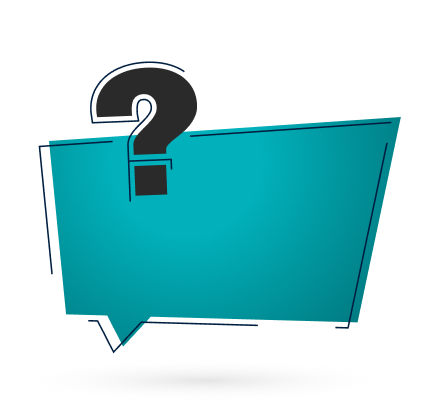
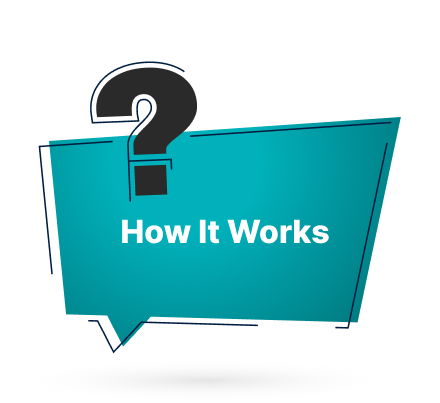
API page changes

diff --git a/src/pages/API/HeroApi.jsx b/src/pages/API/HeroApi.jsx
@@ -5,6 +5,14 @@ import ApiIntegrate from './ApiIntegrate';
 import Plan from './Plan';
 import ApiAccess from './ApiAccess';
 import HowItWorks from './HowItWorks';
+import CustomAPIPlan from './CustomApiPlan';
+import DraggableImageSection from '../Home/DraggableImageSection';
+import sec14Img2 from "../../assets/home/sec14/Vector.png";
+import sec14Img3 from "../../assets/home/sec14/m1.jpg";
+import sec14Img4 from "../../assets/home/sec14/m2.jpg";
+import sec14Img5 from "../../assets/home/sec14/m3.jpg";
+
+
 
 export default function HeroApi() {
   return (
@@ -67,6 +75,183 @@ export default function HeroApi() {
     {/* section-7  */}
 
     <HowItWorks/>
+
+    {/* section-8  */}
+    
+    <CustomAPIPlan/>
+
+    {/* section-9  */}
+
+ <div className='w-full flex justify-center'>
+ <div className='w-[1280px] h-[1049px] rounded-[40px] bg-[white] shadow-[#00000040] shadow-[0_0_4px_0] flex flex-col justify-center items-center'>
+      <h2 className="w-full max-w-[743px] min-h-[64px] text-[44px] leading-[64px] font-bold text-center">
+        Ready to <span className="text-[#009A98]">Create Something Great?</span>
+      </h2>
+      <p className=" w-full max-w-[770px] min-h-[56px] text-[18px] font-[400] leading-[28px] text-center text-[#2A2A2A] my-8">
+        We offer flexible API plans tailored to your needs.<br />
+        Let’s build the right setup—just for you.
+      </p>
+    <div className="w-[730px] h-[721px] rounded-[10px] border-[1px] border-[#007B8214] border-solid p-[50px] gap-[10px] bg-[#ffffff] shadow-[#ABB2BB40] shadow-[0_0_12px_0] flex justify-center items-center">
+      <form className="space-y-8">
+        <div className="flex flex-col md:flex-row gap-4">
+          <input
+            type="text"
+            placeholder="Ram"
+            className="flex-1 border-[1px] border-solid border-[#E2E2E2] bg-[#F9F9F9] rounded px-4 py-2 focus:outline-none focus:ring-2 focus:ring-teal-500"
+          />
+          <input
+            type="email"
+            placeholder="ramprakash@example.com"
+            className="flex-1 border-[1px] border-solid border-[#E2E2E2] bg-[#F9F9F9] rounded px-4 py-2 focus:outline-none focus:ring-2 focus:ring-teal-500"
+          />
+        </div>
+        <div className="flex flex-col md:flex-row gap-4">
+          <input
+            type="tel"
+            placeholder="+9 0123456789"
+            className="flex-1 border-[1px] border-solid border-[#E2E2E2] bg-[#F9F9F9] rounded px-4 py-2 focus:outline-none focus:ring-2 focus:ring-teal-500"
+          />
+          <div className="flex-1 flex items-center border-[1px] border-solid border-[#E2E2E2] bg-[#F9F9F9] rounded px-4 py-2 ">
+            <img src="https://flagcdn.com/w40/in.png" alt="India Flag" className="" />
+            <span className="text-gray-500"></span>
+          </div>
+        </div>
+        <input
+          type="text"
+          placeholder="Companyexample"
+          className="w-full border-[1px] border-solid border-[#E2E2E2] bg-[#F9F9F9] rounded px-4 py-2 focus:outline-none focus:ring-2 focus:ring-teal-500"
+        />
+        <input
+          type="text"
+          placeholder="Address*"
+          className="w-full border-[1px] border-solid border-[#E2E2E2] bg-[#F9F9F9] rounded px-4 py-2 focus:outline-none focus:ring-2 focus:ring-teal-500"
+        />
+        <textarea
+          placeholder="Your message..."
+          rows="4"
+          className="w-full border-[1px] border-solid border-[#E2E2E2] bg-[#F9F9F9] rounded px-4 py-2 focus:outline-none focus:ring-2 focus:ring-teal-500"
+        />
+        <button
+          type="submit"
+          className="w-full bg-gradient-to-r from-teal-600 to-teal-500 text-white py-2 rounded hover:opacity-90 transition"
+        >
+          Let's Connect!
+        </button>
+      </form>
+    </div>
+  
+  </div>
+
+ </div>
+
+       {/* {section-10} */}
+       <section className="w-full py-16 px-4 flex flex-col justify-center items-center mt-20">
+        <h2 className="text-[48px] md:text-5xl font-semibold text-center text-gray-800 leading-[140%]">
+          Discover Our{" "}
+          <span className="text-[#007B82]">Advanced AI Interior Tools</span> and
+          Redesign
+        </h2>
+        <h2 className="text-[48px] md:text-5xl font-semibold text-center text-[black] mt-3">
+          Your Space Instantly
+        </h2>
+      </section>
+
+ {/* section-11  */}
+
+ <DraggableImageSection/>
+
+ {/* section-12  */}
+
+  <section
+         className="relative w-full  absolute-0  bg-cover bg-center bg-no-repeat"
+         style={{ backgroundImage: "url('./src/assets/home/sec14/bg1.jpg')" }}
+       >
+         <div className="py-20 px-6 bg-[#00000096]">
+           <div className="flex flex-col items-center text-center text-white">
+             <h2 className="text-[48px] md:text-5xl leading-[140%] text-center font-bold mb-4">
+               <span className="text-6xl font-bold">“</span> Meet Our Members{" "}
+               <span className="text-6xl font-bold">”</span>
+             </h2>
+             <p className="max-w-[630px] min-h-[78px] text-[28px] leading-[140%] text-center md:text-xl text-gray-300 mb-8">
+               You're in good company with{" "}
+               <span className="text-cyan-400  font-semibold">Stackly AI</span>,
+               trusted by people in all 195 countries.
+             </p>
+             {/* Center logo */}
+             <div className="mb-16">
+               <div className="bg-[#FFFFFF1F] rounded-full p-8 shadow-lg">
+                 <img src={sec14Img2} alt="Center Icon" className="w-12 h-12" />
+               </div>
+             </div>
+ 
+             {/* Member Cards */}
+             <div className="w-[100vw] flex justify-center item-center flex-wrap gap-10">
+               {/* Card 1 */}
+               <div className="max-w-[413px] min-h-[288px] bg-white rounded-[12px] p-10 flex flex-col items-center">
+                 <div className="min-w-[413px] h-full flex justify-around items-center">
+                   <div className="max-w-[206px] min-h-[64px] flex flex-col items-start gap-1 ">
+                     <h3 className="text-black text-[22px] font-medium leading-[140%] ">Guru Ragav Auditor</h3>
+                     <p className="text-[#b0b0b0] font-[400] text-[18px] leading-[140%]">Auditor</p>
+                   </div>
+                   <img
+                     src={sec14Img3}
+                     alt="Member 1"
+                     className="w-20 h-20 rounded-full object-cover"
+                   />
+                 </div>
+                 <p className="text-[#2A2A2A] font-[400] text-[18px] leading-[140%] mt-10">
+                   “I use Stackly AI to help my clients visualize how their
+                   backyard could look like if they hire me for the job. It works
+                   flawlessly!”
+                 </p>
+               </div>
+ 
+               {/* Card 2 */}
+               <div className="max-w-[413px] min-h-[288px] bg-white rounded-[12px] p-10 flex flex-col items-center">
+                 <div className="min-w-[413px] h-full flex justify-around items-center">
+                   <div className="max-w-[206px] min-h-[64px] flex flex-col items-start gap-1">
+                     <h3 className="text-black text-[22px] font-medium leading-[140%]">Cristian Rama</h3>
+                     <p className="text-[#b0b0b0] font-[400] text-[18px] leading-[140%]">Architect</p>
+                   </div>
+                   <img
+                     src={sec14Img4}
+                     alt="Member 2"
+                     className="w-20 h-20 rounded-full object-cover"
+                   />
+                 </div>
+                 <p className="text-[#2A2A2A] font-[400] text-[18px] leading-[140%] mt-10">
+                   “I needed to replace my living room furniture so I generated a
+                   few design ideas with Stackly AI. Awesome technology!”
+                 </p>
+               </div>
+ 
+               {/* Card 3 */}
+               <div className="max-w-[413px] min-h-[288px] bg-white rounded-[12px] p-10 flex flex-col items-center">
+                 <div className="min-w-[413px] h-full flex justify-around items-center">
+                   <div className="max-w-[206px] min-h-[64px] flex flex-col items-start gap-1">
+                     <h3 className="text-black text-[22px] font-medium leading-[140%]">Ram Krishnan</h3>
+                     <p className="text-[#b0b0b0] font-[400] text-[18px] leading-[140%]">Architect</p>
+                   </div>
+                   <img
+                     src={sec14Img5}
+                     alt="Member 3"
+                     className="w-20 h-20 rounded-full object-cover"
+                   />
+                 </div>
+                 <p className="text-[#2A2A2A] font-[400] text-[18px] leading-[140%] mt-10">
+                   “I run a real estate agency and my clients send me pictures
+                   with their empty properties. I use Stackly AI to furnish them
+                   automatically!”
+                 </p>
+               </div>
+             </div>
+           </div>
+         </div>
+       </section>
+
+       {/* section-14  */}
+       
+
 
 
     </div>

diff --git a/src/pages/API/HowItWorks.jsx b/src/pages/API/HowItWorks.jsx
@@ -2,67 +2,52 @@ import HowImage from "../../assets/api/how.png";
 
 const HowItWorks = () => {
   return (
-    <div style={{ padding: "40px", backgroundColor: "#f9f9f9" }}>
-      <div style={{ display: "flex", alignItems: "flex-start", gap: "20px" }}>
-        <img src={HowImage} alt="How It Works" style={{ width: "150px" }} />
-        <div>
-          <p style={{ maxWidth: "500px", lineHeight: "1.5", color: "#333" }}>
-            Bring AI-powered design into your app with just a few lines of code.
-            The StacklyAI API makes it easy to process user-submitted images, apply
-            custom styles, and deliver stunning visual results—all in real time.
-          </p>
-        </div>
+    <div className="py-10 bg-gray-50">
+      <div className="flex flex-col md:flex-row items-start gap-6 max-w-5xl mx-auto">
+        <img src={HowImage} alt="How It Works" className="w-[413px]" />
+        <p className="text-[#2A2A2A] leading-[28px] text-[18px] font-medium max-w-xl mt-[150px] gap-5">
+          Bring AI-powered design into your app with just a few lines of code. The StacklyAI API makes it easy to process user-submitted images, apply custom styles, and deliver stunning visual results—all in real time.
+        </p>
       </div>
-      <div style={{ display: "flex", justifyContent: "space-between", marginTop: "40px" }}>
-        <div style={{ textAlign: "center", width: "23%" }}>
-          <div style={{
-            border: "1px solid #eee",
-            borderRadius: "50%",
-            width: "50px",
-            height: "50px",
-            lineHeight: "50px",
-            margin: "0 auto",
-            fontWeight: "bold"
-          }}>1</div>
-          <p>Connect your API key to your backend or platform</p>
+
+      <div className="w-full h-auto flex p-[20px] justify-center items-center">
+
+        <div className="w-[330px] h-[400px] flex flex-col gap-[50px] justify-center items-center">
+           <div className=" w-[130px] h-[133px] rounded-[140px] border-dashed border-[2px] border-[#B0B0B0] flex justify-center items-center text-[60px] font-bold leading-[100%] text-center">1</div>
+           <div  className="w-[305px] h-[184px] rounded-[30px] px-[20px] py-[60px] bg-[white] gap-[10px] shadow-[0_6.54px_12.2px_0] shadow-[#ABB2BB40] flex flex-col justify-center items-center">
+               <div className="text-center text-[19px] leading-[32px] font-medium text-[#2A2A2A]">Connect your API key to your backend or platform</div>
+           </div>
         </div>
-        <div style={{ textAlign: "center", width: "23%" }}>
-          <div style={{
-            border: "1px solid #eee",
-            borderRadius: "50%",
-            width: "50px",
-            height: "50px",
-            lineHeight: "50px",
-            margin: "0 auto",
-            fontWeight: "bold"
-          }}>2</div>
-          <p>Send a user-uploaded image with a chosen style prompt</p>
+
+          
+        <div className="w-[330px] h-[400px] flex flex-col gap-[50px] justify-center items-center">
+           <div className="w-[130px] h-[133px] rounded-[140px] border-dashed border-[2px] border-[#B0B0B0] flex justify-center items-center text-[60px] font-bold leading-[100%] text-center">2</div>
+           <div  className="w-[305px] h-[184px] rounded-[30px] px-[20px] py-[60px] bg-[white] gap-[10px] shadow-[0_6.54px_12.2px_0] shadow-[#ABB2BB40] flex flex-col justify-center items-center">
+               <div className="text-center text-[19px] leading-[32px] font-medium text-[#2A2A2A]">Send a user-uploaded image with a chosen style prompt</div>
+           </div>
         </div>
-        <div style={{ textAlign: "center", width: "23%" }}>
-          <div style={{
-            border: "1px solid #eee",
-            borderRadius: "50%",
-            width: "50px",
-            height: "50px",
-            lineHeight: "50px",
-            margin: "0 auto",
-            fontWeight: "bold"
-          }}>3</div>
-          <p>Receive high-quality, styled images in seconds</p>
+
+          
+        <div className="w-[330px] h-[400px] flex flex-col gap-[50px] justify-center items-center">
+           <div className="w-[130px] h-[133px] rounded-[140px] border-dashed border-[2px] border-[#B0B0B0] flex justify-center items-center text-[60px] font-bold leading-[100%] text-center">3</div>
+           <div  className="w-[305px] h-[184px] rounded-[30px] px-[20px] py-[60px] bg-[white] gap-[10px] shadow-[0_6.54px_12.2px_0] shadow-[#ABB2BB40] flex flex-col justify-center items-center">
+               <div className="text-center text-[19px] leading-[32px] font-medium text-[#2A2A2A]">Receive high-quality, styled images in seconds</div>
+           </div>
         </div>
-        <div style={{ textAlign: "center", width: "23%" }}>
-          <div style={{
-            border: "1px solid #eee",
-            borderRadius: "50%",
-            width: "50px",
-            height: "50px",
-            lineHeight: "50px",
-            margin: "0 auto",
-            fontWeight: "bold"
-          }}>4</div>
-          <p>Display or store them seamlessly within your app</p>
+
+          
+        <div className="w-[330px] h-[400px] flex flex-col gap-[50px] justify-center items-center">
+           <div className="w-[130px] h-[133px] rounded-[140px] border-dashed border-[2px] border-[#B0B0B0] flex justify-center items-center text-[60px] font-bold leading-[100%] text-center">4</div>
+           <div  className="w-[305px] h-[184px] rounded-[30px] px-[20px] py-[60px] bg-[white] gap-[10px] shadow-[0_6.54px_12.2px_0] shadow-[#ABB2BB40] flex flex-col justify-center items-center">
+               <div className="text-center text-[19px] leading-[32px] font-medium text-[#2A2A2A]">Display or store them seamlessly within your app</div>
+           </div>
         </div>
+
+          
+
+
       </div>
+      
     </div>
   );
 };

diff --git a/src/pages/API/CustomApiPlan.jsx b/src/pages/API/CustomApiPlan.jsx
@@ -1,0 +1,49 @@
+import React from "react";
+
+const CustomAPIPlan = () => {
+  return (
+    <div className="w-full min-h-[913px] bg-[#001414] flex justify-center items-center">
+      <div className="max-w-[1280px] min-h-[581px] flex flex-col items-center">
+        <h2 className="w-[709px] min-h-[64px] font-[800] text-[44px] leading-[64px] text-center text-white">
+          Why Choose a <span className="text-[#00B0BA]">Custom API Plan?</span>
+        </h2>
+        <div className="flex gap-[40px] mt-[60px] flex-wrap justify-center">
+          {/* Box 1 */}
+          <div className="w-[350px] h-[330px] px-[40px] py-[80px] gap-[10px] bg-white rounded-[24px] flex flex-col items-center text-center">
+            <h3 className="text-[#00B0BA] font-bold text-[28px] leading-[100%]">
+              Tailored Integrations
+            </h3>
+            <p className="mt-[16px] text-[#2B2B2B] text-[16px] leading-[150%]">
+              Get APIs configured to suit your specific workflows, data requirements,
+              and use cases—no unnecessary extras.
+            </p>
+          </div>
+
+          {/* Box 2 */}
+          <div className="w-[350px] h-[330px] px-[40px] py-[80px] gap-[10px] bg-white rounded-[24px] flex flex-col items-center text-center">
+            <h3 className="text-[#00B0BA] font-bold text-[28px] leading-[100%]">
+              Scalable to Your Needs
+            </h3>
+            <p className="mt-[16px] text-[#2B2B2B] text-[16px] leading-[150%]">
+              Whether you're a startup or an enterprise, adjust your API limits,
+              endpoints, and access as your business evolves.
+            </p>
+          </div>
+
+          {/* Box 3 */}
+          <div className="w-[350px] h-[330px] px-[40px] py-[80px] gap-[10px] bg-white rounded-[24px] flex flex-col items-center text-center">
+            <h3 className="text-[#00B0BA] font-bold text-[28px] leading-[100%]">
+              Priority Support
+            </h3>
+            <p className="mt-[16px] text-[#2B2B2B] text-[16px] leading-[150%]">
+              Work directly with our experts for implementation, troubleshooting, and
+              optimization to ensure your API runs smoothly.
+            </p>
+          </div>
+        </div>
+      </div>
+    </div>
+  );
+};
+
+export default CustomAPIPlan;
